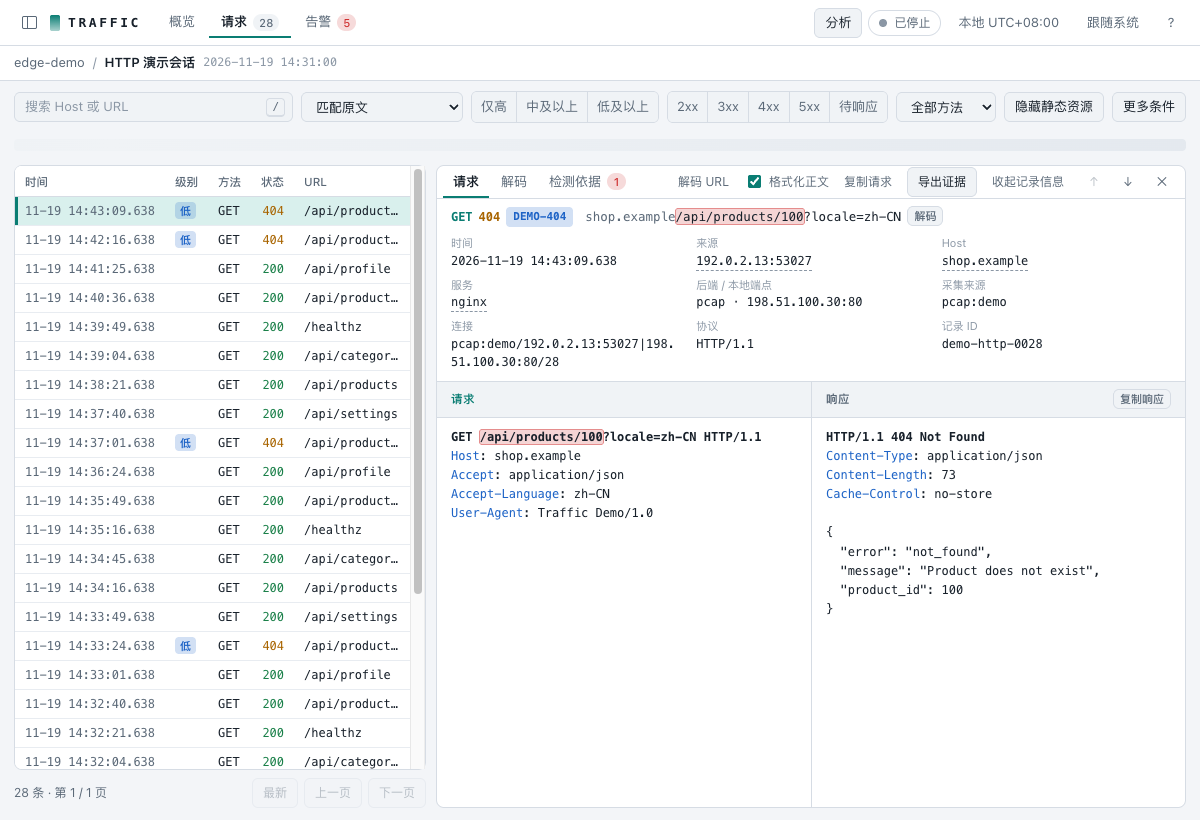
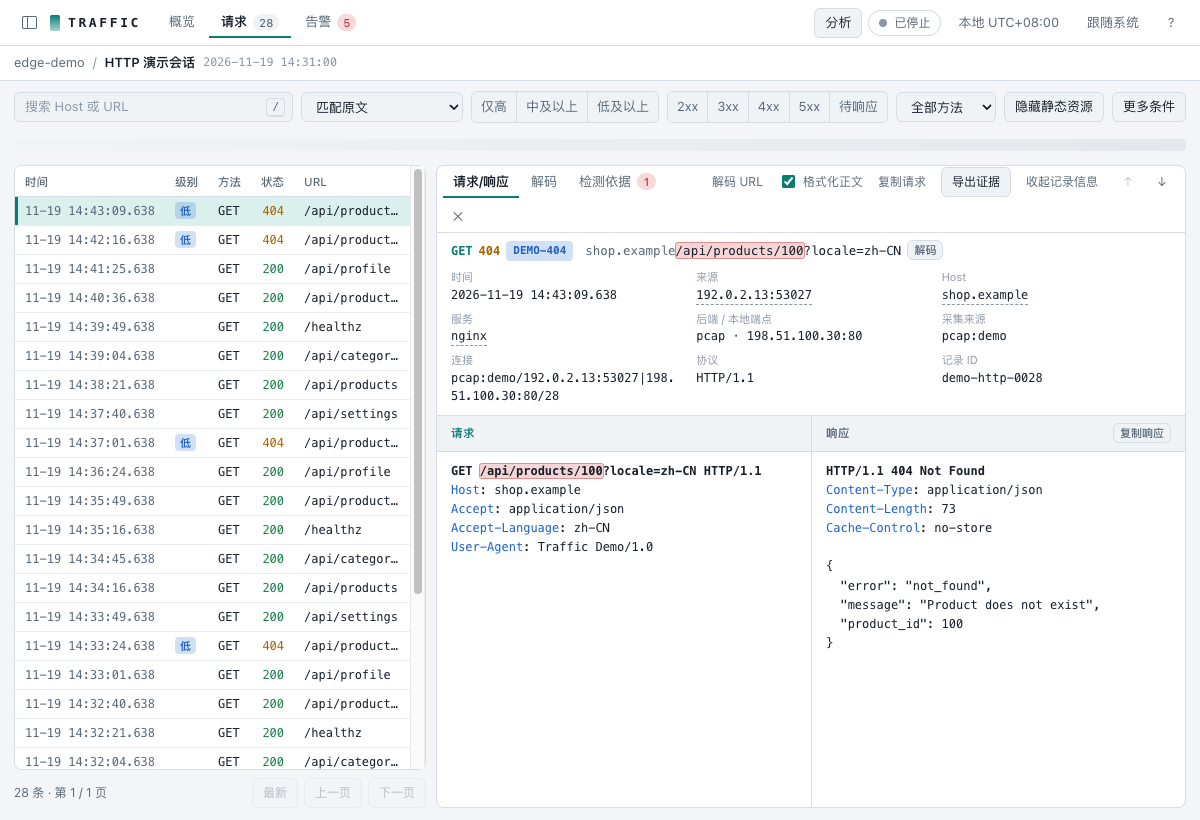
Label the combined Web request and response tab

Changed region(s): [[0.37, 0.2134, 0.925, 0.6707], [0.6783, 0.4573, 0.8942, 0.7622], [0.925, 0.4573, 0.9867, 0.5488]]

diff --git a/cmd/traffic-console/web/decoder.js b/cmd/traffic-console/web/decoder.js
@@ -325,8 +325,9 @@ function renderDetail() {
 
   const tabs = availableTabs(data);
   const tab = tabs.some(([key]) => key === state.detailTab) ? state.detailTab : 'request';
+  const paired = !tabs.some(([key]) => key === 'response');
   set($('detail-tabs'), ...tabs.map(([key, label]) => h('button', { type: 'button', role: 'tab', 'aria-selected': String(key === tab), onclick: () => setDetailTab(key) },
-    label, key === 'alerts' ? h('span', { class: 'badge alert' }, String(alerts.length)) : null)));
+    key === 'request' && paired ? '请求/响应' : label, key === 'alerts' ? h('span', { class: 'badge alert' }, String(alerts.length)) : null)));
   $('pretty-wrap').hidden = tab !== 'request' && tab !== 'response';
   $('decode-selection').hidden = tab === 'decoder' || tab === 'alerts';
   $('detail-copy').hidden = tab === 'alerts';

diff --git a/docs/guide.md b/docs/guide.md
@@ -253,7 +253,7 @@ IIS、Windows nginx/apache 和通用 OpenSSL 的探针参数见 [Windows 采集]
 - **会话选择**按日期分组，显示状态、主机、请求数和告警数，可按名称、主机或目录查找。
 - **概览**显示累计计数、数据缺口提示、请求与告警时间线、命中规则、来源地址、告警级别和响应状态分布、最近告警以及采集状态。点击规则、来源或分布项会跳到对应的筛选结果，在时间线上拖选会把列表限定到这段时间。
 - **请求 / 告警列表**每页 100 条，支持 Host/URL 关键词、级别、响应状态、请求方法、来源地址、规则、服务和起止时间组合筛选，输入后即时生效。关键词默认匹配原文；旁边的下拉框可改为「URL 解码 1 次 / 2 次 / 3 次后匹配」，用于查找 `%2520` 这类多重编码的载荷，排除关键词同样按此方式匹配。「隐藏静态资源」去掉 js、css、图片、字体等请求；「更多条件」中可填排除关键词（空格或逗号分隔）、包含参数（按参数名匹配，如 `cmd` 不会命中 `xcmd`）以及精确状态码（如 `403`）。列表上方的时间线随筛选条件变化，同样可以拖选缩小范围。翻到历史页时保持当前位置，并提示新到达的请求数。
-- **详情**打开时直接显示报文。详情区足够宽时，请求和响应并排显示；窄屏通过「请求」「响应」标签切换。点击「展开记录信息」可查看方法、状态、原始 URL、时间、来源、Host 和服务等字段，再次点击可收起。查询参数可在原始 URL 和解码来源中查看。请求内容会标出规则命中的片段，JSON 正文可格式化显示。gzip 请求和响应正文在「解压正文」中查看。
+- **详情**打开时直接显示报文。详情区足够宽时，「请求/响应」标签并排显示两侧报文；窄屏通过「请求」「响应」标签切换。点击「展开记录信息」可查看方法、状态、原始 URL、时间、来源、Host 和服务等字段，再次点击可收起。查询参数可在原始 URL 和解码来源中查看。请求内容会标出规则命中的片段，JSON 正文可格式化显示。gzip 请求和响应正文在「解压正文」中查看。
 - **解码**标签是手动的逐步解码工具：从下拉框选择来源（完整 URL、路径、各查询参数、Cookie、表单参数、请求正文、常见请求头），或点击参数旁的「解码」、URL 旁的「解码」、命中片段下的「解码片段」，也可以选中任意文字后按 `d`。可用的解码有 URL、URL（保留 +）、Base64（含 URL 安全变体）、Hex、HTML 实体、Unicode / JS 转义（`\uXXXX`、`%uXXXX`、`\xHH` 等）、JWT（只解头部和载荷，不校验签名）、Gzip / Deflate 解压。每一步都在上一步结果上继续，例如「URL → URL → Base64」，步骤条上可点回任一步或撤销；能对当前结果生效的解码按钮会高亮。二进制结果可切换十六进制显示。解码只在浏览器中进行，不改动采集数据。来源、Host、服务和规则可以直接点击作为筛选条件。复制按钮旁的「导出证据」下载与 `traffic-console export` 相同的 ZIP，采集进行中时导出会被拒绝。
 
 采集中的会话按 `--refresh` 间隔自动刷新，默认每秒一次，最小 500 毫秒。已结束的会话降为每 5 秒检查一次，时间线和统计的刷新间隔不低于 5 秒。索引较大时，响应状态分布超过 1.5 秒会被跳过并在页面上说明。右上角可以切换本地时间与 UTC、深色与浅色配色，详情栏宽度可拖动调整。
